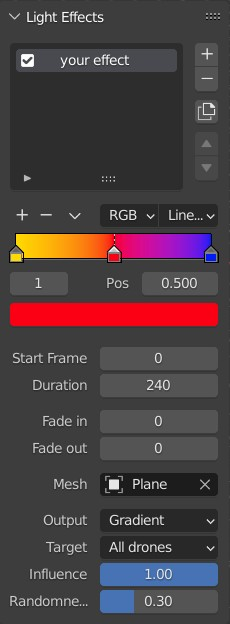
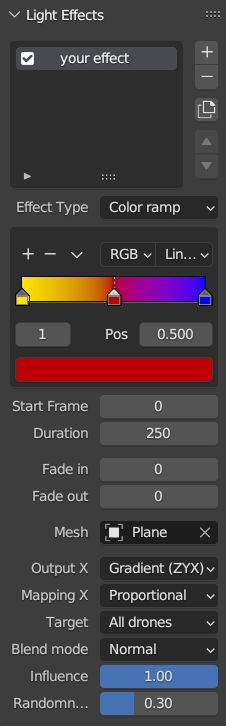
doc: added documentation for color image based light effects

diff --git a/CHANGELOG.md b/CHANGELOG.md
@@ -34,6 +34,9 @@ and this project adheres to [Semantic Versioning](https://semver.org/spec/v2.0.0
   during a staggered transition manually, or to manually create more complex
   transition patterns.
 
+- Besides the one dimensional color ramp, a two dimensional color image can also be 
+  used as the base color space of light effects to be mapped onto the drones with the desired output mapping. In case of color images, both dimensions / axes can accept any output mapping type.
+
 ### Fixed
 
 - View scaling setting from the Blender preferences is now taken into account
